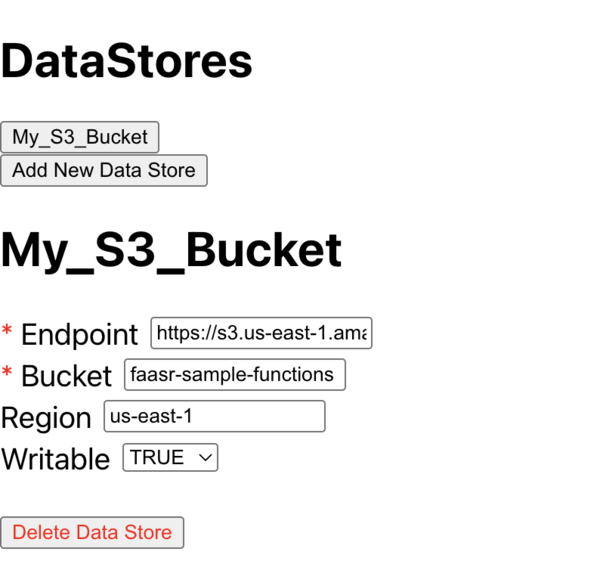
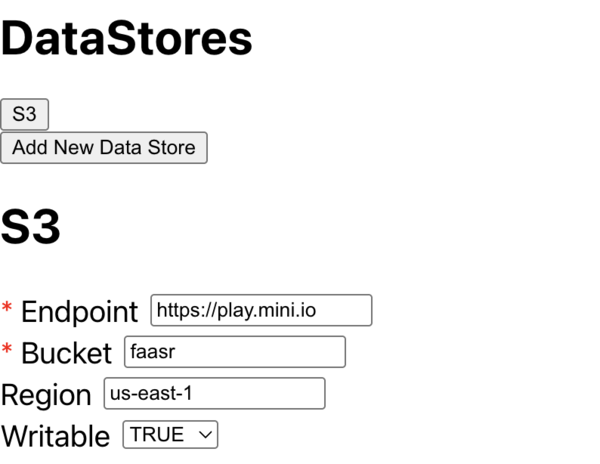
Updated data store and screenshots

diff --git a/weather_visualization/README.md b/weather_visualization/README.md
@@ -713,7 +713,7 @@ def plot_weather_comparison(
 
 Now that we wrote our three functions, we are ready to start building our workflow using the FaaSr Workflow Builder: [https://faasr.io/FaaSr-workflow-builder/](https://faasr.io/FaaSr-workflow-builder/).
 
-The final workflow file that we will create can be found in [weather_visualization.jso](./weather_visualization.json). Before getting started, you can visualize this workflow by clicking **Upload** from the Workflow Builder and either uploading the file or importing from its GitHub URL: [https://github.com/JStover95/FaaSr-Functions/blob/main/weather_visualization_py.json](https://github.com/JStover95/FaaSr-Functions/blob/main/weather_visualization_py.json).
+The final workflow file that we will create can be found in [weather_visualization.jso](./weather_visualization.json). Before getting started, you can visualize this workflow by clicking **Upload** from the Workflow Builder and either uploading the file or importing from its GitHub URL: [https://github.com/JStover95/FaaSr-Functions/blob/main/weather_visualization/weather_visualization.json](https://github.com/JStover95/FaaSr-Functions/blob/main/weather_visualization/weather_visualization.json).
 
 > ℹ As you make changes to your workflow, you can click the **vertical layout** or **horizontal layout** controls at the top of the right-hand layout view to re-arrange the layout with your changes.
 
@@ -727,11 +727,11 @@ Click **Edit Compute Servers** and enter the information for the GitHub reposito
 
 ### 2. Set Up our Data Store
 
-Click **Edit Data Stores**. Then, enter the endpoint, bucket, and region for your data store. This can be the same as what you used when following the tutorial.
+Click **Edit Data Stores**. Then, enter the endpoint, bucket, and region that was used in the tutorial (...). For **Endpoint**, **Bucket**, and **Region** enter `https://play.mini.io`, `faasr`, and `us-east-1`.
 
-> ⚠ Note that the S3 secrets you save in your GitHub repository. For example, with this configuration, your keys must be saved as `S3_ACCESSKEY` and `S3_SECRETKEY`.
+> ℹ This workflow uses MinIO, but it possible to bring your own S3 data store, like AWS S3. See the documentation for more details (...).
 
-The workflow is set up to use an AWS S3 bucket in the region `us-east-1` by default:
+Your data store configuration should appear as below:
 
 ![Data store screenshot](../assets/weather-visualization-workflow-data-store-600px.png)
 
